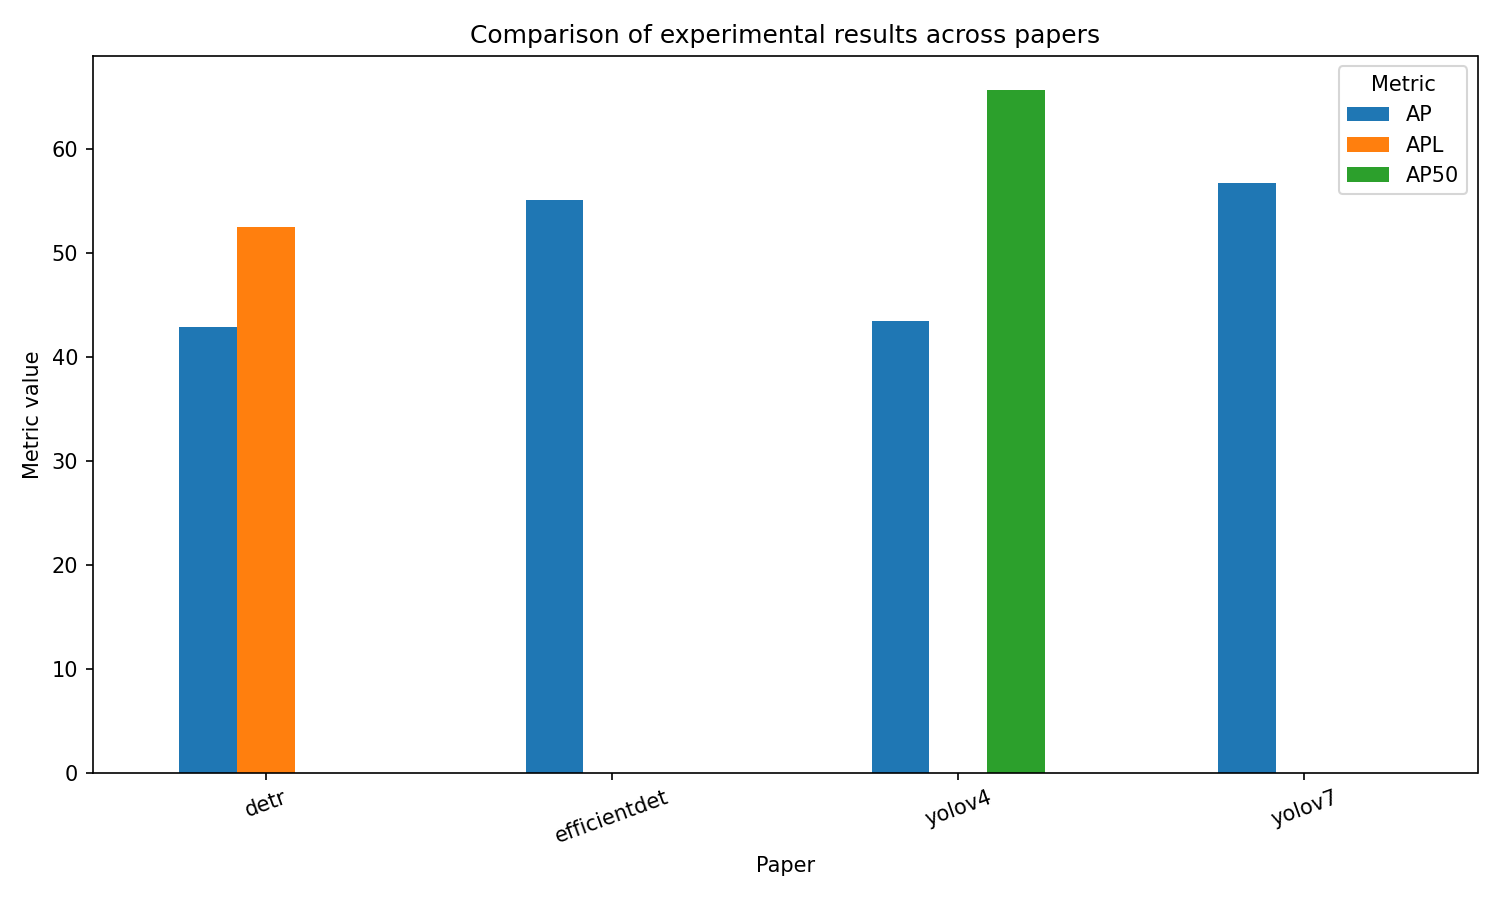
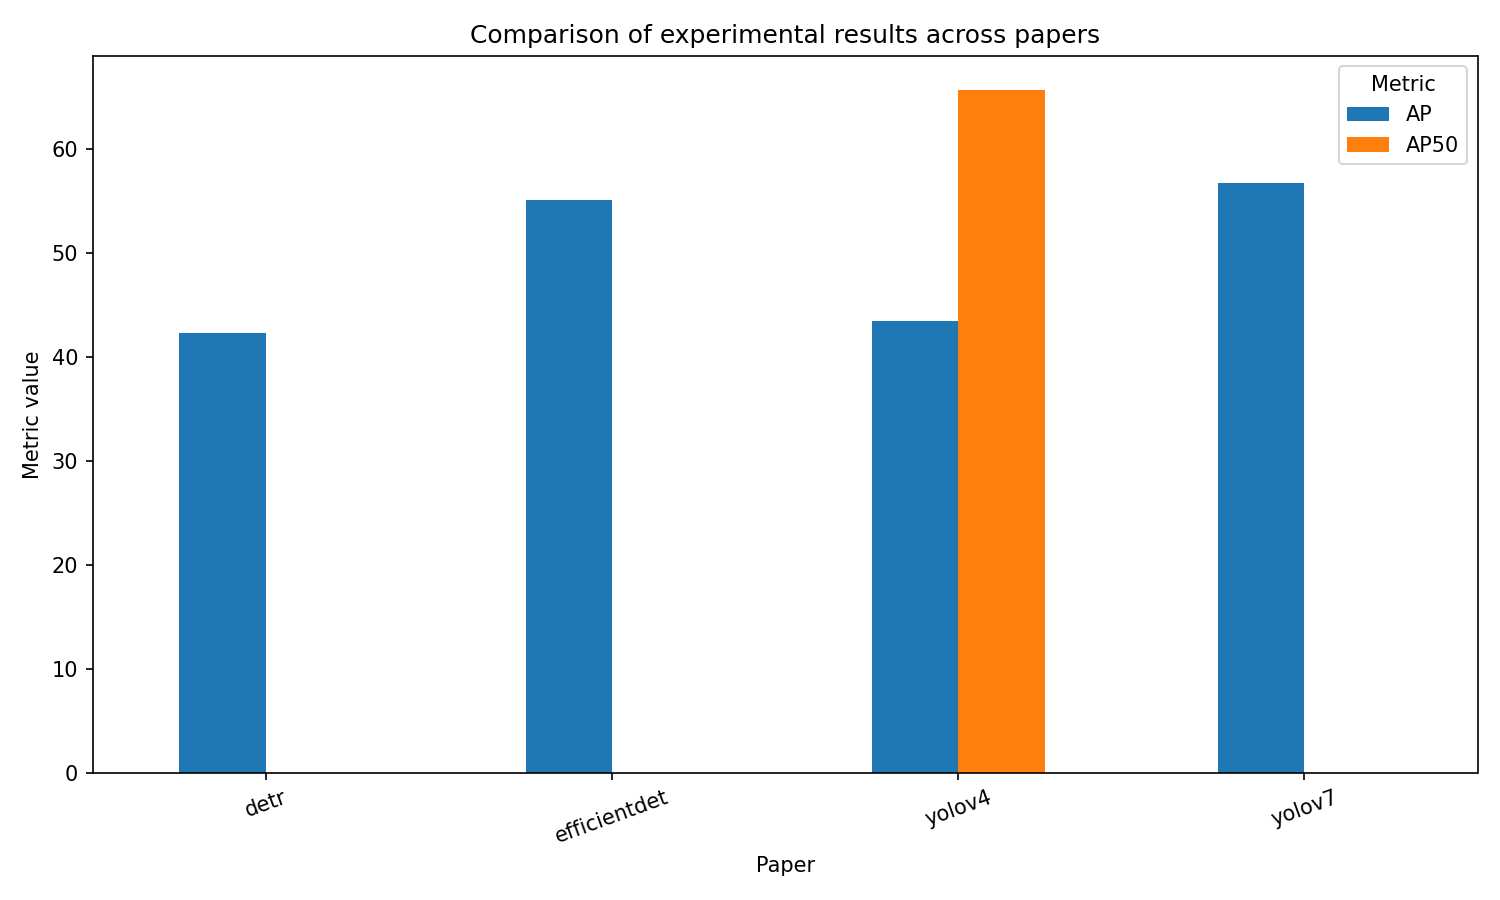
chore: save remaining project changes

diff --git a/functions/comparison.py b/functions/comparison.py
@@ -10,7 +10,7 @@ It simply reuses extract_experimental_results() and adds presentation.
 
 import matplotlib
 
-matplotlib.use("MacOSX")  # save charts to file - works even without a display
+matplotlib.use("macOSX")  # save charts to file - works even without a display
 import matplotlib.pyplot as plt
 
 from functions.results_extraction import extract_experimental_results
